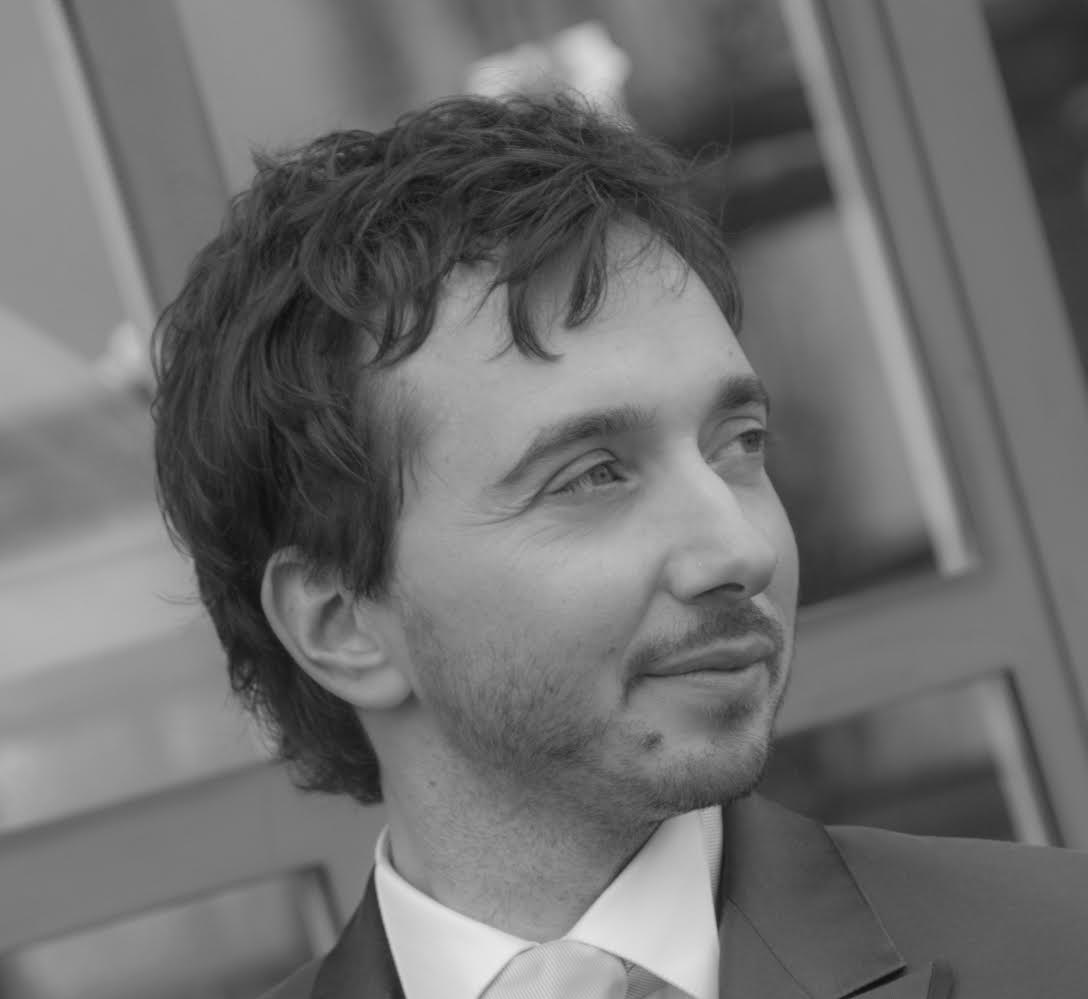
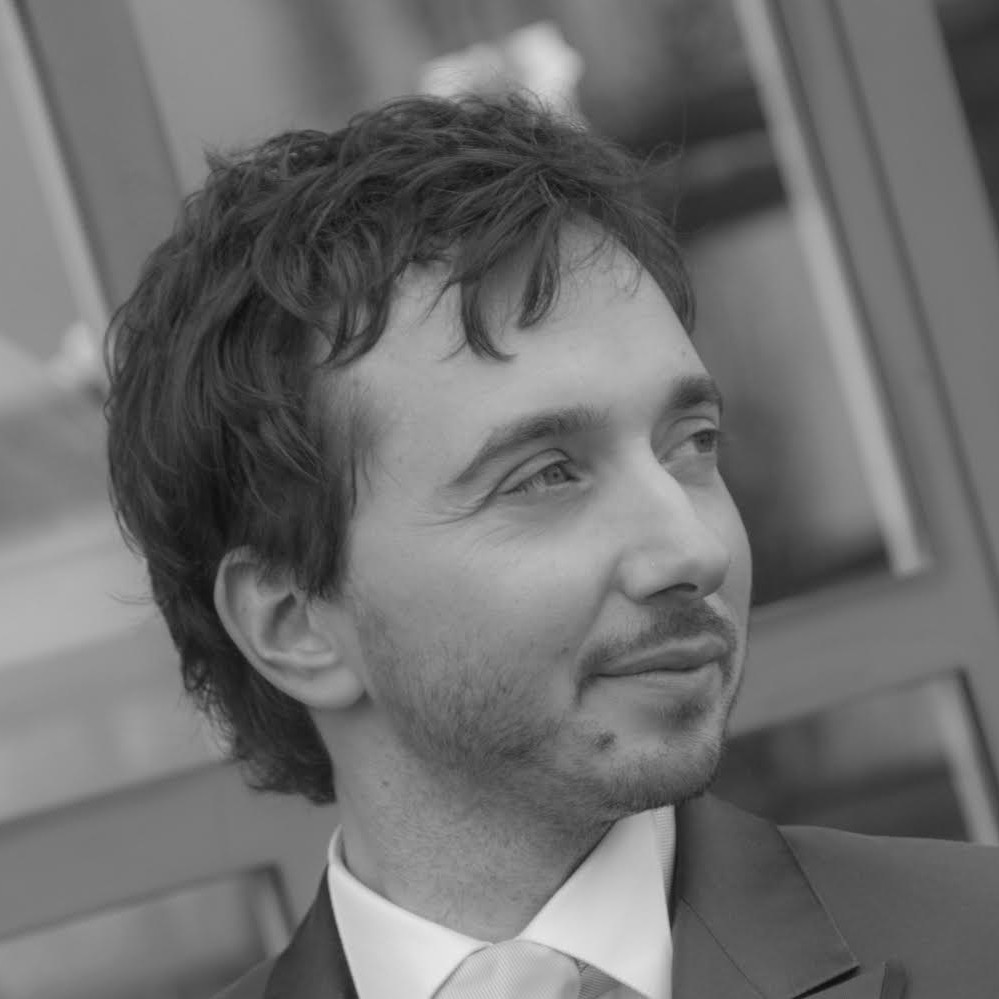
Improved background and improved Simone

diff --git a/index.html b/index.html
@@ -142,22 +142,22 @@
                     <img src="img/jeff.jpg" class="img-circle img-responsive"></>
                     <h4>Jeffrey Johnson</h4>
                     <p>Managing Principal</p>
-                    <a href="#"><i class="fa fa-github-square animated"></i></a>
-                    <a href="#"><i class="fa fa-linkedin-square animated"></i></a>
+                    <a href="https://github.com/jj0hns0n" target="_blank"><i class="fa fa-github-square animated"></i></a>
+                    <a href="https://www.linkedin.com/in/ortelius" target="_blank"><i class="fa fa-linkedin-square animated"></i></a>
                 </div>
                 <div class="col-sm-6 col-md-4 wow fadeInUp" id="profile">
                     <img src="img/ariel.jpg" class="img-circle img-responsive"></>
                     <h4>Ariel Nuñez</h4>
                     <p>Principal</p>
-                    <a href="#"><i class="fa fa-github-square animated"></i></a>
-                    <a href="#"><i class="fa fa-linkedin-square animated"></i></a>
+                    <a href="https://github.com/ingenieroariel" target="_blank"><i class="fa fa-github-square animated"></i></a>
+                    <a href="https://www.linkedin.com/in/ingenieroariel" target="_blank"><i class="fa fa-linkedin-square animated"></i></a>
                 </div>
                 <div class="col-sm-6 col-md-4 wow fadeInUp" id="profile">
                     <img src="img/simone.jpg" class="img-circle img-responsive"></>
                     <h4>Simone Dalmasso</h4>
                     <p>Principal</p>
-                    <a href="#"><i class="fa fa-github-square animated"></i></a>
-                    <a href="#"><i class="fa fa-linkedin-square animated"></i></a>
+                    <a href="https://github.com/simod" target="_blank"><i class="fa fa-github-square animated"></i></a>
+                    <a href="https://www.linkedin.com/in/simonedalmasso" target="_blank"><i class="fa fa-linkedin-square animated"></i></a>
                 </div>
             </div><!--/.row-->
         </div><!--/.container-->

diff --git a/css/main.css b/css/main.css
@@ -295,16 +295,16 @@ ul.nostyle i {
 @media (min-width: 992px){
 
   #home-page {
-    background: url(../img/background-home-02.png);
+    background: url(../img/background-map.png);
     background-attachment: fixed;
-    background-position: center center;
-    background-repeat: no-repeat;
-    background-size: 100%;
+    background-position: top center;
+    background-repeat: repeat-x;
+    background-size: auto;
     overflow: hidden;
     width: 100%;
-    height: 800px;
+    height: 550px;
     left: 0;
-    background-color: #9CD8DC;
+    background-color: #b4cc35;
     margin-top: -100px;
   }
   #home-page .home-inner {
@@ -323,8 +323,8 @@ ul.nostyle i {
     text-align: center;
     line-height: 1.2;
     font-weight: 400;
-    color: #fff;
-    text-shadow: 1px 1px 5px #1A1A1A;
+    color: #000;
+    text-shadow: 1px 1px 3px #1A1A1A;
   }
   #home-page .home-content p {
     margin-top: 0px;
